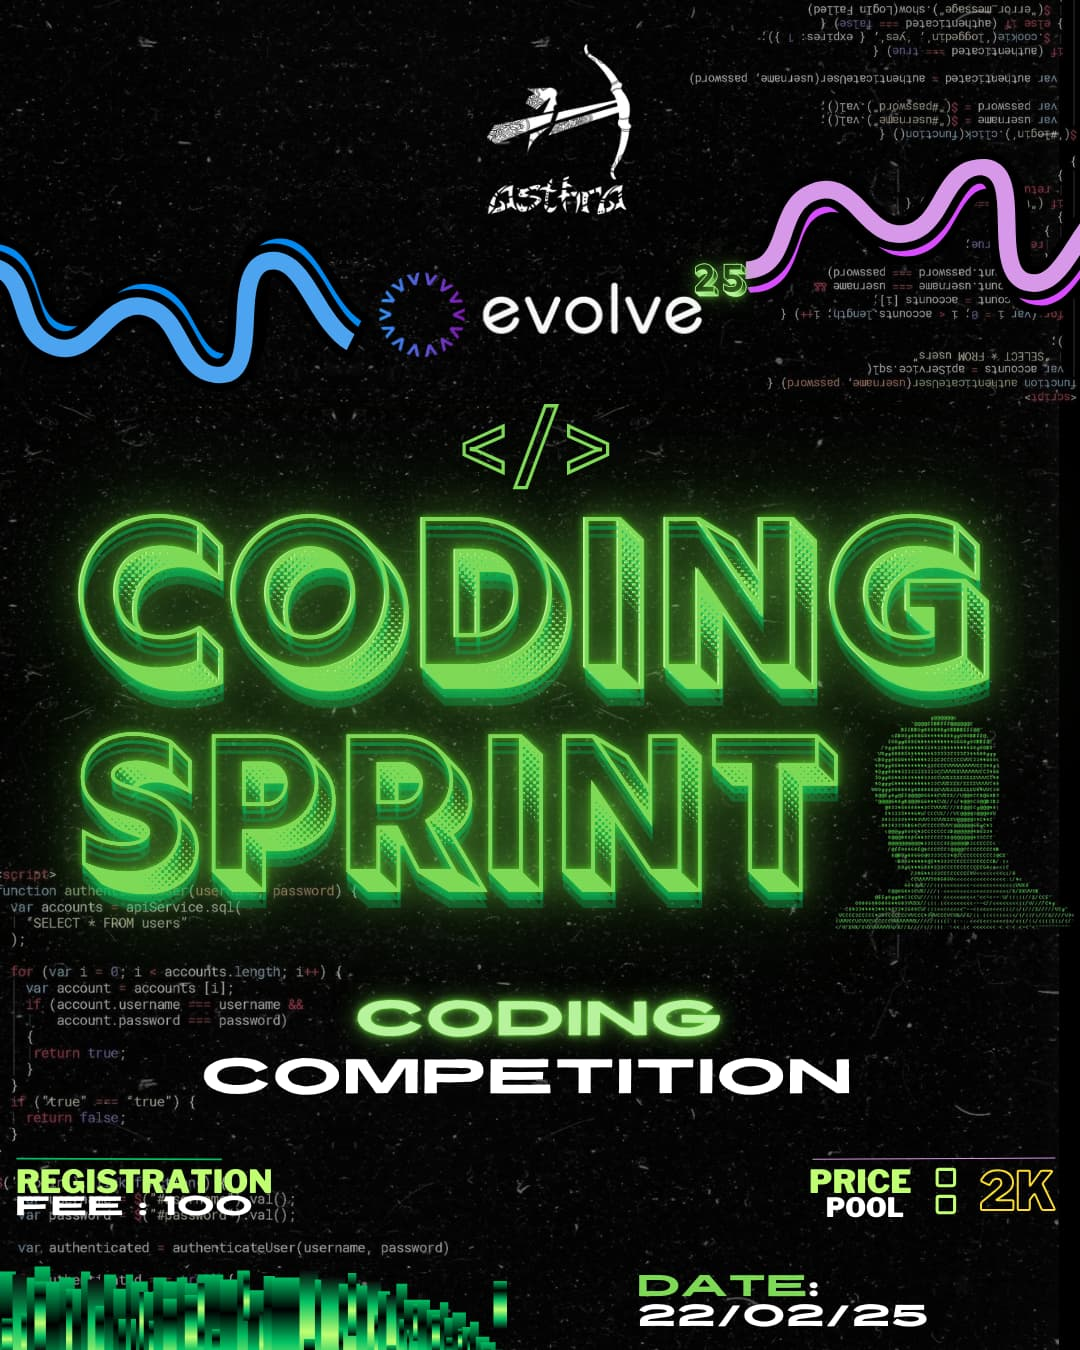
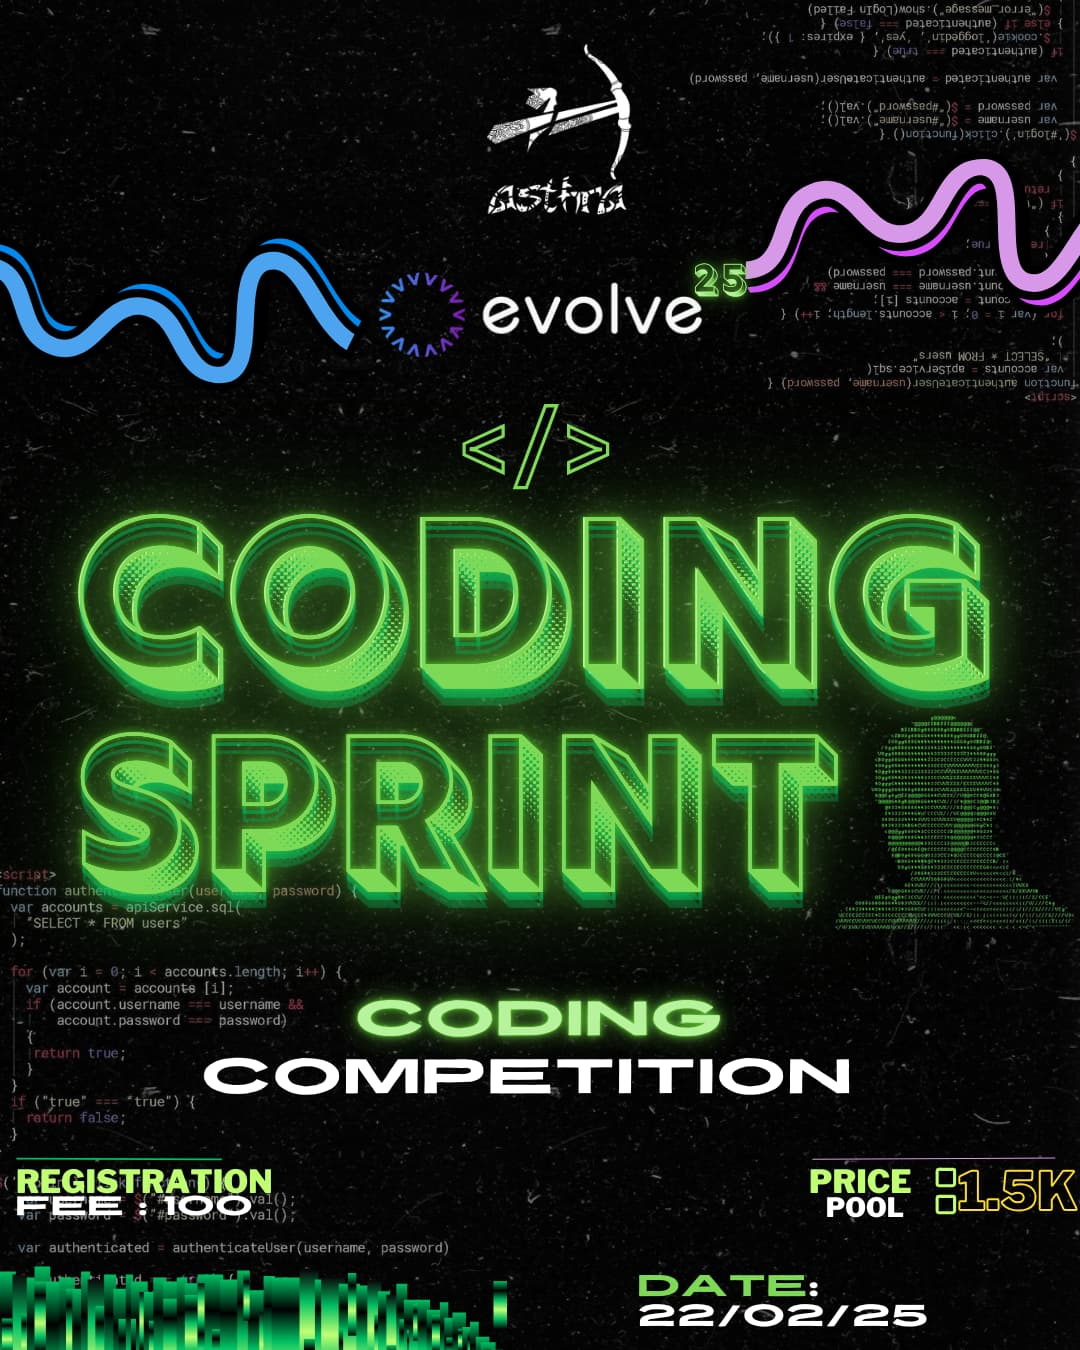
correct prize pools for coding sprint and design forge

diff --git a/src/components/technicalEventData.jsx b/src/components/technicalEventData.jsx
@@ -48,7 +48,7 @@ export const technicalEvents = [
     },
     prizes: {
       type: 'pool',
-      amount: 2000
+      amount: 1500
     },
     content: {
       'Description': 'Forge your creativity into code! 🔥Unleash your design skills at EVOLVE\'s Design Forge.Craft a website that wows, and claim the crown of creativity! 🏆Are you ready to design the future? 💻✨',
@@ -85,7 +85,7 @@ export const technicalEvents = [
     },
     prizes: {
       type: 'pool',
-      amount: 2000
+      amount: 1500
     },
     content: {
       'Description': 'Unleash your coding prowess at EVOLVE! 🚀Race against time, crack the challenges, and emerge as the ultimate code champion. 🏆Are you ready to evolve your skills? 💻✨',
@@ -133,35 +133,6 @@ export const technicalEvents = [
       ],
     },
     registrationLink: 'https://forms.gle/6KNrL7LYL7LsoWV97'
-    },
-  {
-    id: 'task_master',
-    name: 'Task Master',
-    poster: '/assets/Events/CSE/task.jpg',
-    tags: ['CSE','Evolve'],
-    registrationFee: {
-      amount: 50,
-      perTeam: false
-    },
-    prizes: {
-      type: 'pool',
-      amount: 1000
-    },
-    content: {
-      'Description': 'Master the tasks, capture the flag! 🚩Prove your skills in speed, logic, and precision at EVOLVE.Complete the challenges, claim the crown, and become the ultimate Taskmaster! 🏆Are you ready to take on the challenge? 💻✨',
-      'Rules And Regulation': [
-        'Participants will be provided with unique challenges (e.g., typing speed, database query challenge etc.).',
-        'The competition focuses on speed, accuracy, and problem-solving skills across multiple tasks.',
-        'Participants must complete all challenges in the given order or as specified by the organizers.',
-        'The first participant to complete all challenges successfully will be declared the winner.',
-        'Participants must work individually. Collaboration or sharing of solutions is strictly prohibited.',
-        'Participants must not use any unauthorized tools or assistance that violate the competition rules.',
-        'Any form of malpractice will result in immediate disqualification.',
-        'Certificates will be provided for the participants.',
-        'Participants should bring their ID card and report 1 hour before the event.'
-      ],
-    },
-    registrationLink: 'https://forms.gle/dXKgjvb31JY3fCaX7'
     },
   {
     id: 'cloning_competition',
